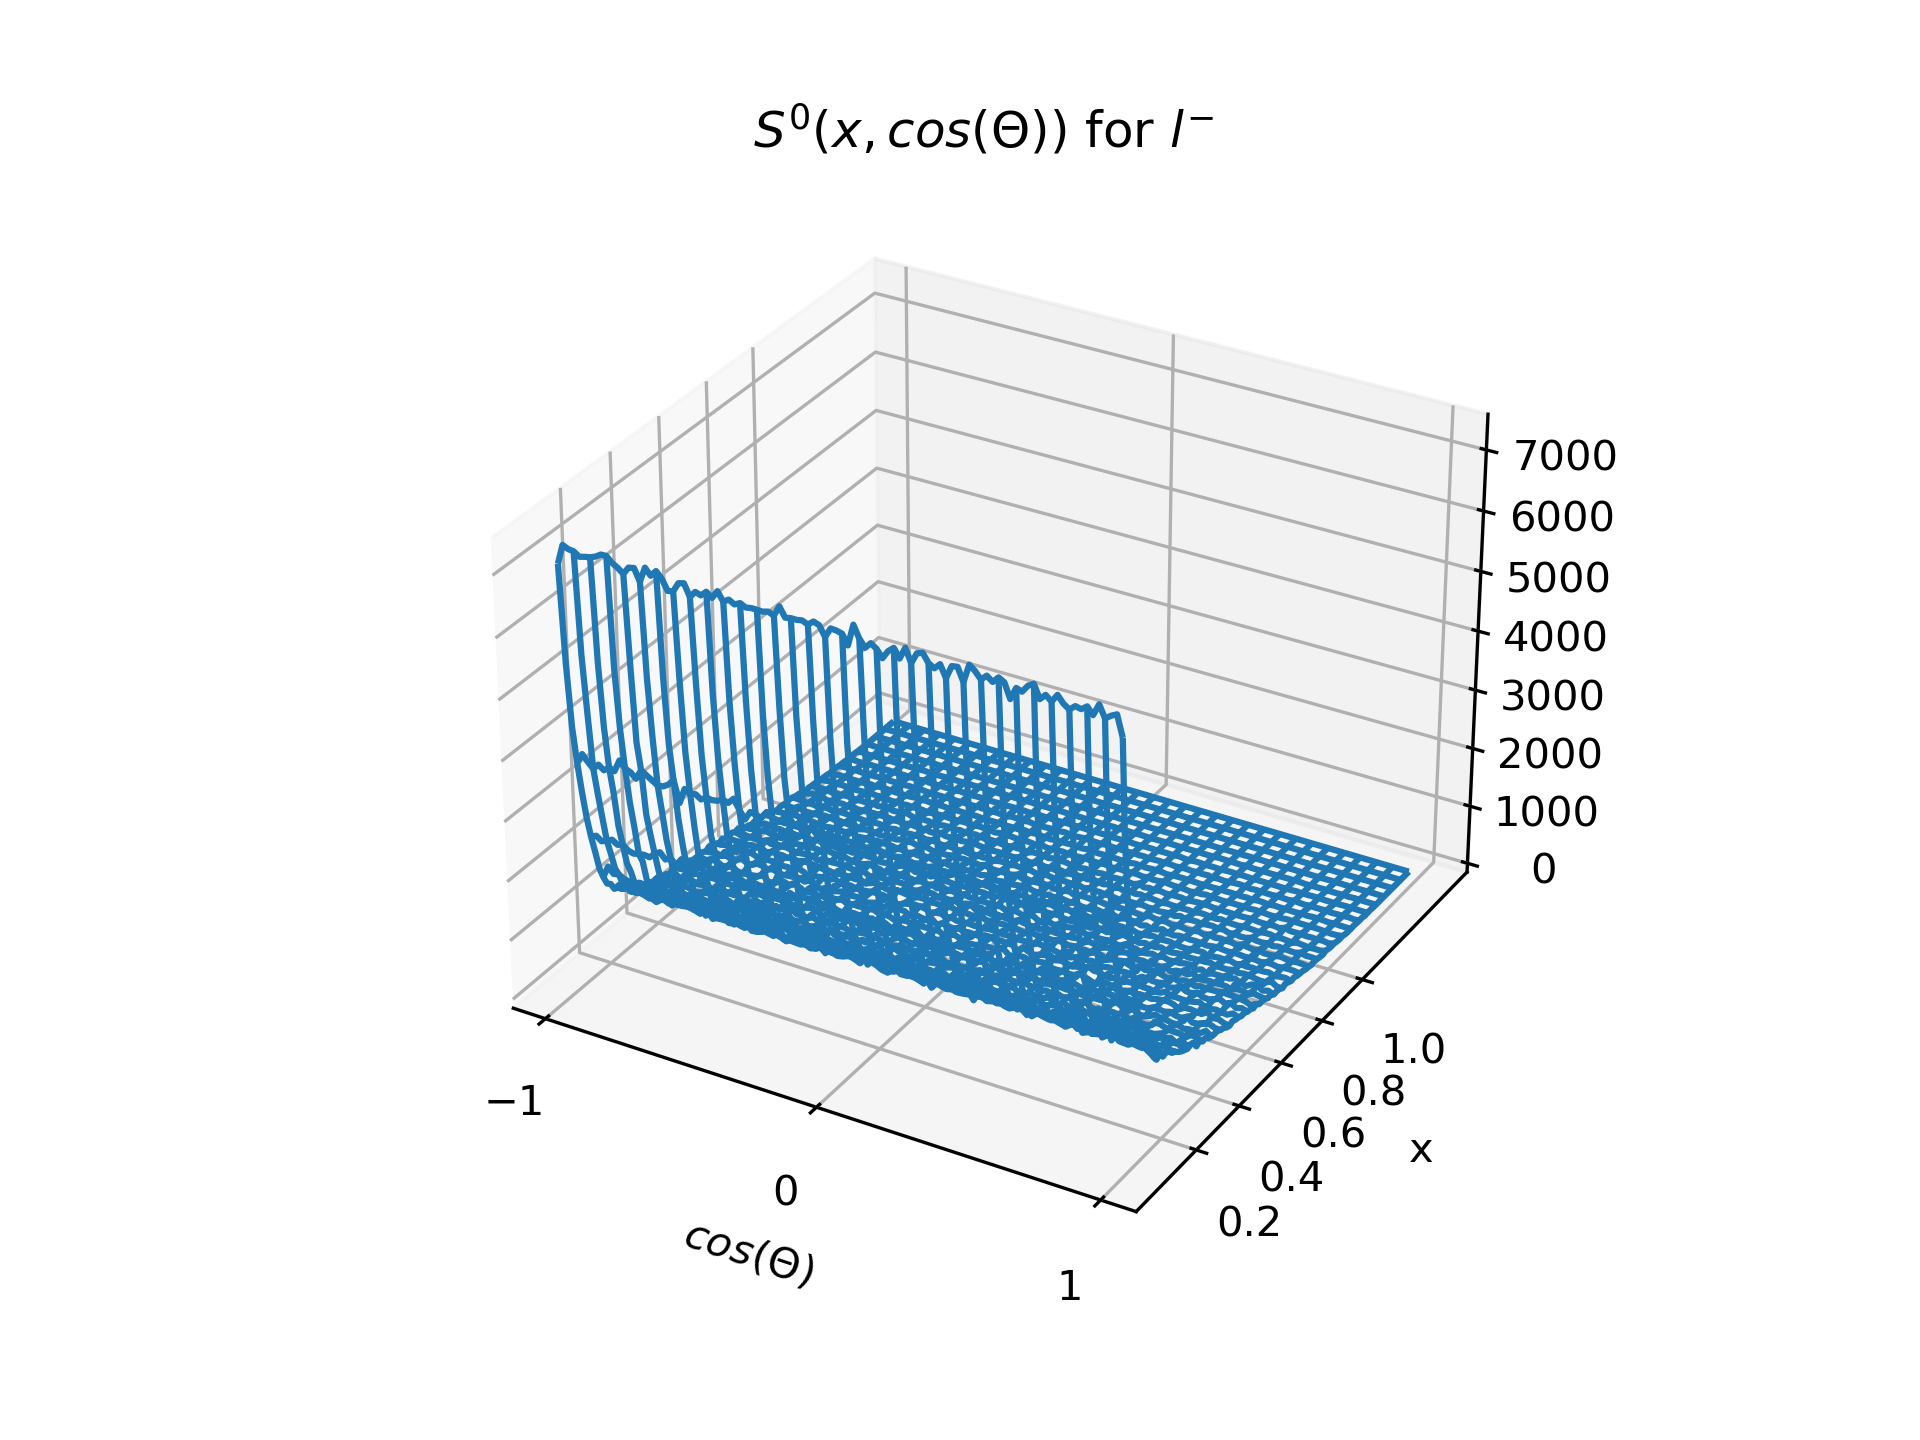
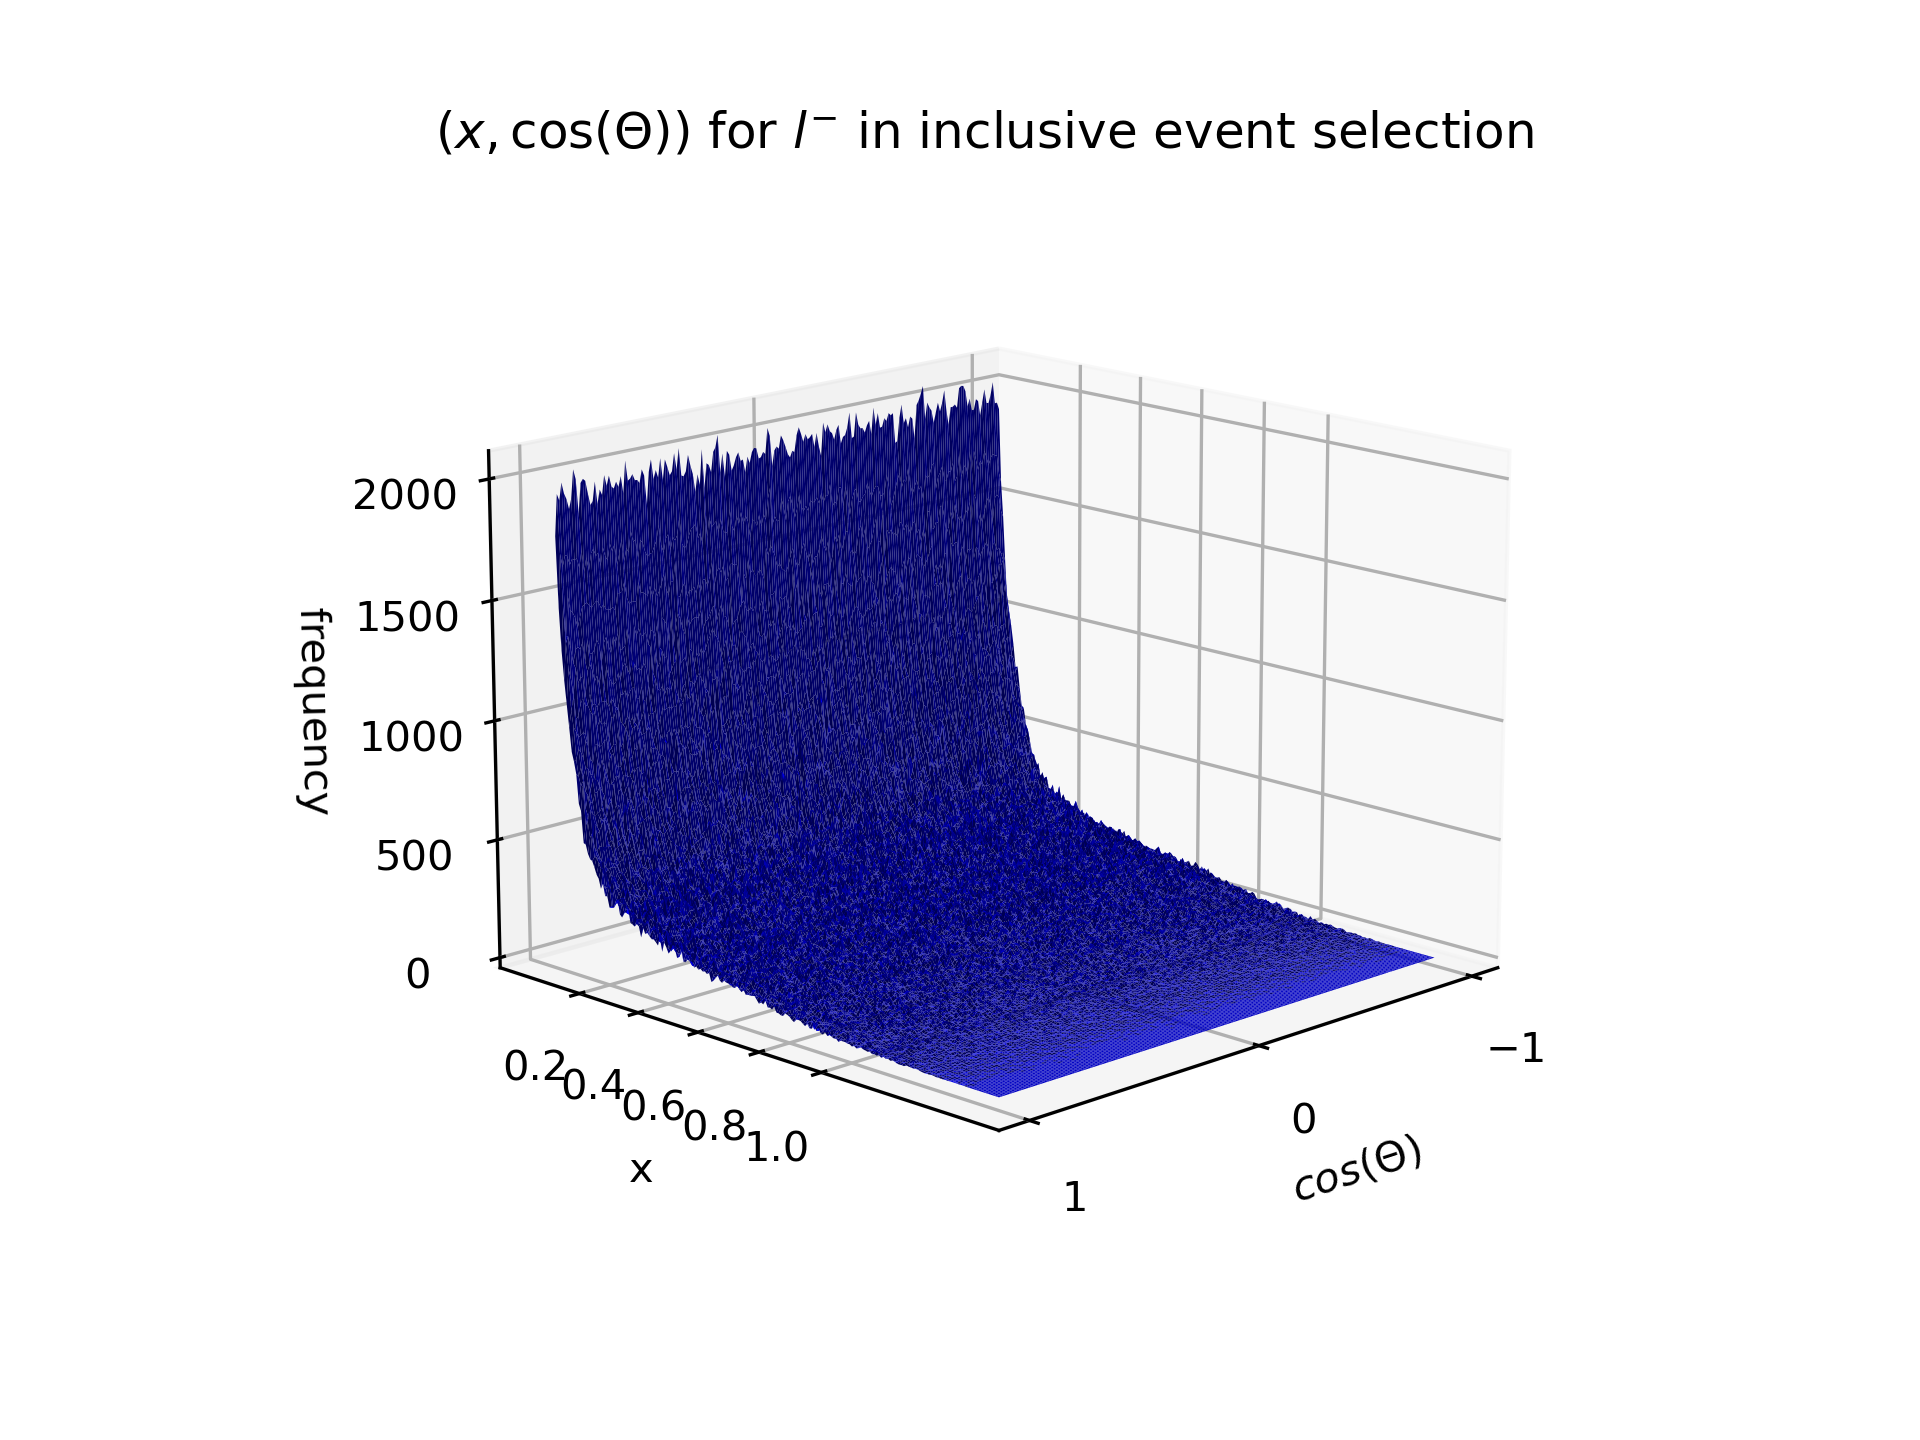
updated code and improved plot

diff --git a/leptons_xcosTheta.py b/leptons_xcosTheta.py
@@ -2,7 +2,9 @@ import numpy as np
 import os
 import matplotlib.pyplot as plt
 from mpl_toolkits.mplot3d import Axes3D
-
+import pandas as pd
+import awkward as ak
+from mpl_toolkits.axes_grid1.inset_locator import inset_axes
 
 def arrays(particle):
 	home_dir = os.path.expanduser("~")
@@ -19,8 +21,6 @@ def arrays(particle):
 electron_px, electron_py, electron_pz, electron_charge, electron_energy = arrays("electron")
 muon_px, muon_py, muon_pz, muon_charge, muon_energy = arrays("muon")
 
-fig = plt.figure()
-ax2 = fig.add_subplot(111, projection='3d')
 #joining lepton arrays
 lepton_px = np.concatenate((electron_px,muon_px))
 lepton_py = np.concatenate((electron_py,muon_py))
@@ -55,25 +55,66 @@ for i in range(num_entries_pos):
 for i in range(num_entries_neg):
         Theta_neg[i] = theta(lepton_neg_pt[i],lepton_neg_pz[i])
 
-x_pos = 2*lepton_pos_E/m_t #reduced lepton energy where the fraction of the top velocity have been approx to be 1
+x_pos = 2*lepton_pos_E/m_t #reduced lepton energy where the fraction of the top velocity has been approx to be 1
 x_neg = 2*lepton_neg_E/m_t
 
-hist, xedges, yedges = np.histogram2d(x_neg,np.cos(Theta_neg), bins=(100,100))
+hist, xedges, yedges = np.histogram2d(x_neg,np.cos(Theta_neg), bins=(200,200))
 xpos, ypos = np.meshgrid(yedges[:-1]+yedges[1:], xedges[:-1]+xedges[1:]) #use this specific slicing to ensure the x and y position of the bars in the plot is almost in the middle of the chosen bins
 xpos = xpos/2.
 ypos = ypos/2.
-zpos = np.zeros_like (xpos)
 
+zpos = np.zeros_like (xpos)
 dx = xedges [1] - xedges [0]
 dy = yedges [1] - yedges [0]
+dz = hist.flatten()
+fig = plt.figure()
+ax1 = fig.add_subplot(111, projection='3d')
+#ax1.plot_wireframe(xpos,ypos,hist, rstride=3, cstride=3)
+#ax1.bar3d(xpos, ypos, zpos, dx, dy, dz, zsort='average')
+ax1.plot_surface(xpos, ypos,hist, rstride=1, cstride=1, color= "blue")
+ax1.set_title(r"$(x,\mathrm{cos}(\Theta))$ for $l^{-}$ in inclusive event selection")
+ax1.set_xlabel(r"$cos(\Theta)$")
+ax1.set_ylabel("x")
+ax1.set_xticks([-1,0,1])
+ax1.set_yticks([0.2,0.4,0.6,0.8,1.])
+ax1.set_zlabel("frequency")
+ax1.view_init(15,45)
 
-#ax2.bar3d(xpos, ypos, zpos, dx, dy, dz, zsort='average')
-ax2.plot_wireframe(xpos,ypos,hist, rstride=3, cstride=3)
-ax2.set_title(r"$S^{0}(x,cos(\Theta))$ for $l^{-}$")
-ax2.set_xlabel(r"$cos(\Theta)$")
-ax2.set_ylabel("x")
-ax2.set_xticks([-1,0,1])
-ax2.set_yticks([0.2,0.4,0.6,0.8,1.])
+
+#verify results with direct calculation of cos(Theta) by cos(Theta)=p_z/|p_i|=p_z/E_l as m_l is neglegible
+#hist, xedges, yedges = np.histogram2d(x_neg,lepton_neg_pz/lepton_neg_E, bins=(100,100))
+#xpos, ypos = np.meshgrid(yedges[:-1]+yedges[1:], xedges[:-1]+xedges[1:]) #use this specific slicing to ensure the x and y position of the bars in the plot is almost in the middle of the chosen bins
+#xpos = xpos/2.
+#ypos = ypos/2.
+#ax2 = fig.add_subplot(122, projection='3d')
+#ax2.plot_wireframe(xpos,ypos,hist, rstride=3, cstride=3)
+#ax2.set_title(r"$S^{0}(x,cos(\Theta))$ for $l^{-}$")
+#ax2.set_xlabel(r"$cos(\Theta)\approx p_z/E_l$")
+#ax2.set_ylabel("x")
+#ax2.set_xticks([-1,0,1])
+#ax2.set_yticks([0.2,0.4,0.6,0.8,1.])
 plt.savefig("FCCee_leptons_xcosTheta.png",dpi=300)
+plt.close()
+#side by side comparison of the two ways of calculating cos(Theta)
+fig, ax = plt.subplots()
+ax.hist(np.cos(Theta_neg), bins=1000, alpha=0.5, label=r"$\Theta$=arctan(..)",color="blue",histtype="step")  # First histogram
+ax.hist(lepton_neg_pz/lepton_neg_E, bins=1000, alpha=0.5, label=r"$p_z/E_l$",color="red",histtype="step")  # Second histogram
+ax.set_xlabel(r"cos($\Theta$)")
+ax.set_ylabel('Frequency')
+ax.set_ylim(np.max(hist)-1000,np.max(hist)+1000)
+ax.set_title(r'Comparison of direct and indirect calc of cos($\Theta$)')
+ax.legend()
 
-	
+# Define the regions to zoom in for both histograms
+x_zoom_data1 = (0.5,0.51)
+y_zoom_data1 = (68000,70000)
+x_zoom_data2 = (0.5, 0.51)
+y_zoom_data2 = (68000,70000)
+
+# Create a single inset axes for both zoomed-in histograms
+ax_inset = inset_axes(ax, width="30%", height="30%", loc='center')
+ax_inset.hist(np.cos(Theta_neg), bins=5, alpha=0.5,color='blue',histtype="step", range=x_zoom_data1)  # First histogram zoomed
+ax_inset.hist(lepton_neg_pz/lepton_neg_E, bins=5, alpha=0.5, color='red',histtype="step", range=x_zoom_data2)  # Second histogram zoomed
+ax_inset.set_xticks([0.5,0.505,0.51])
+ax_inset.set_yticks([])
+#plt.savefig("cosTheta.png",dpi=300)
